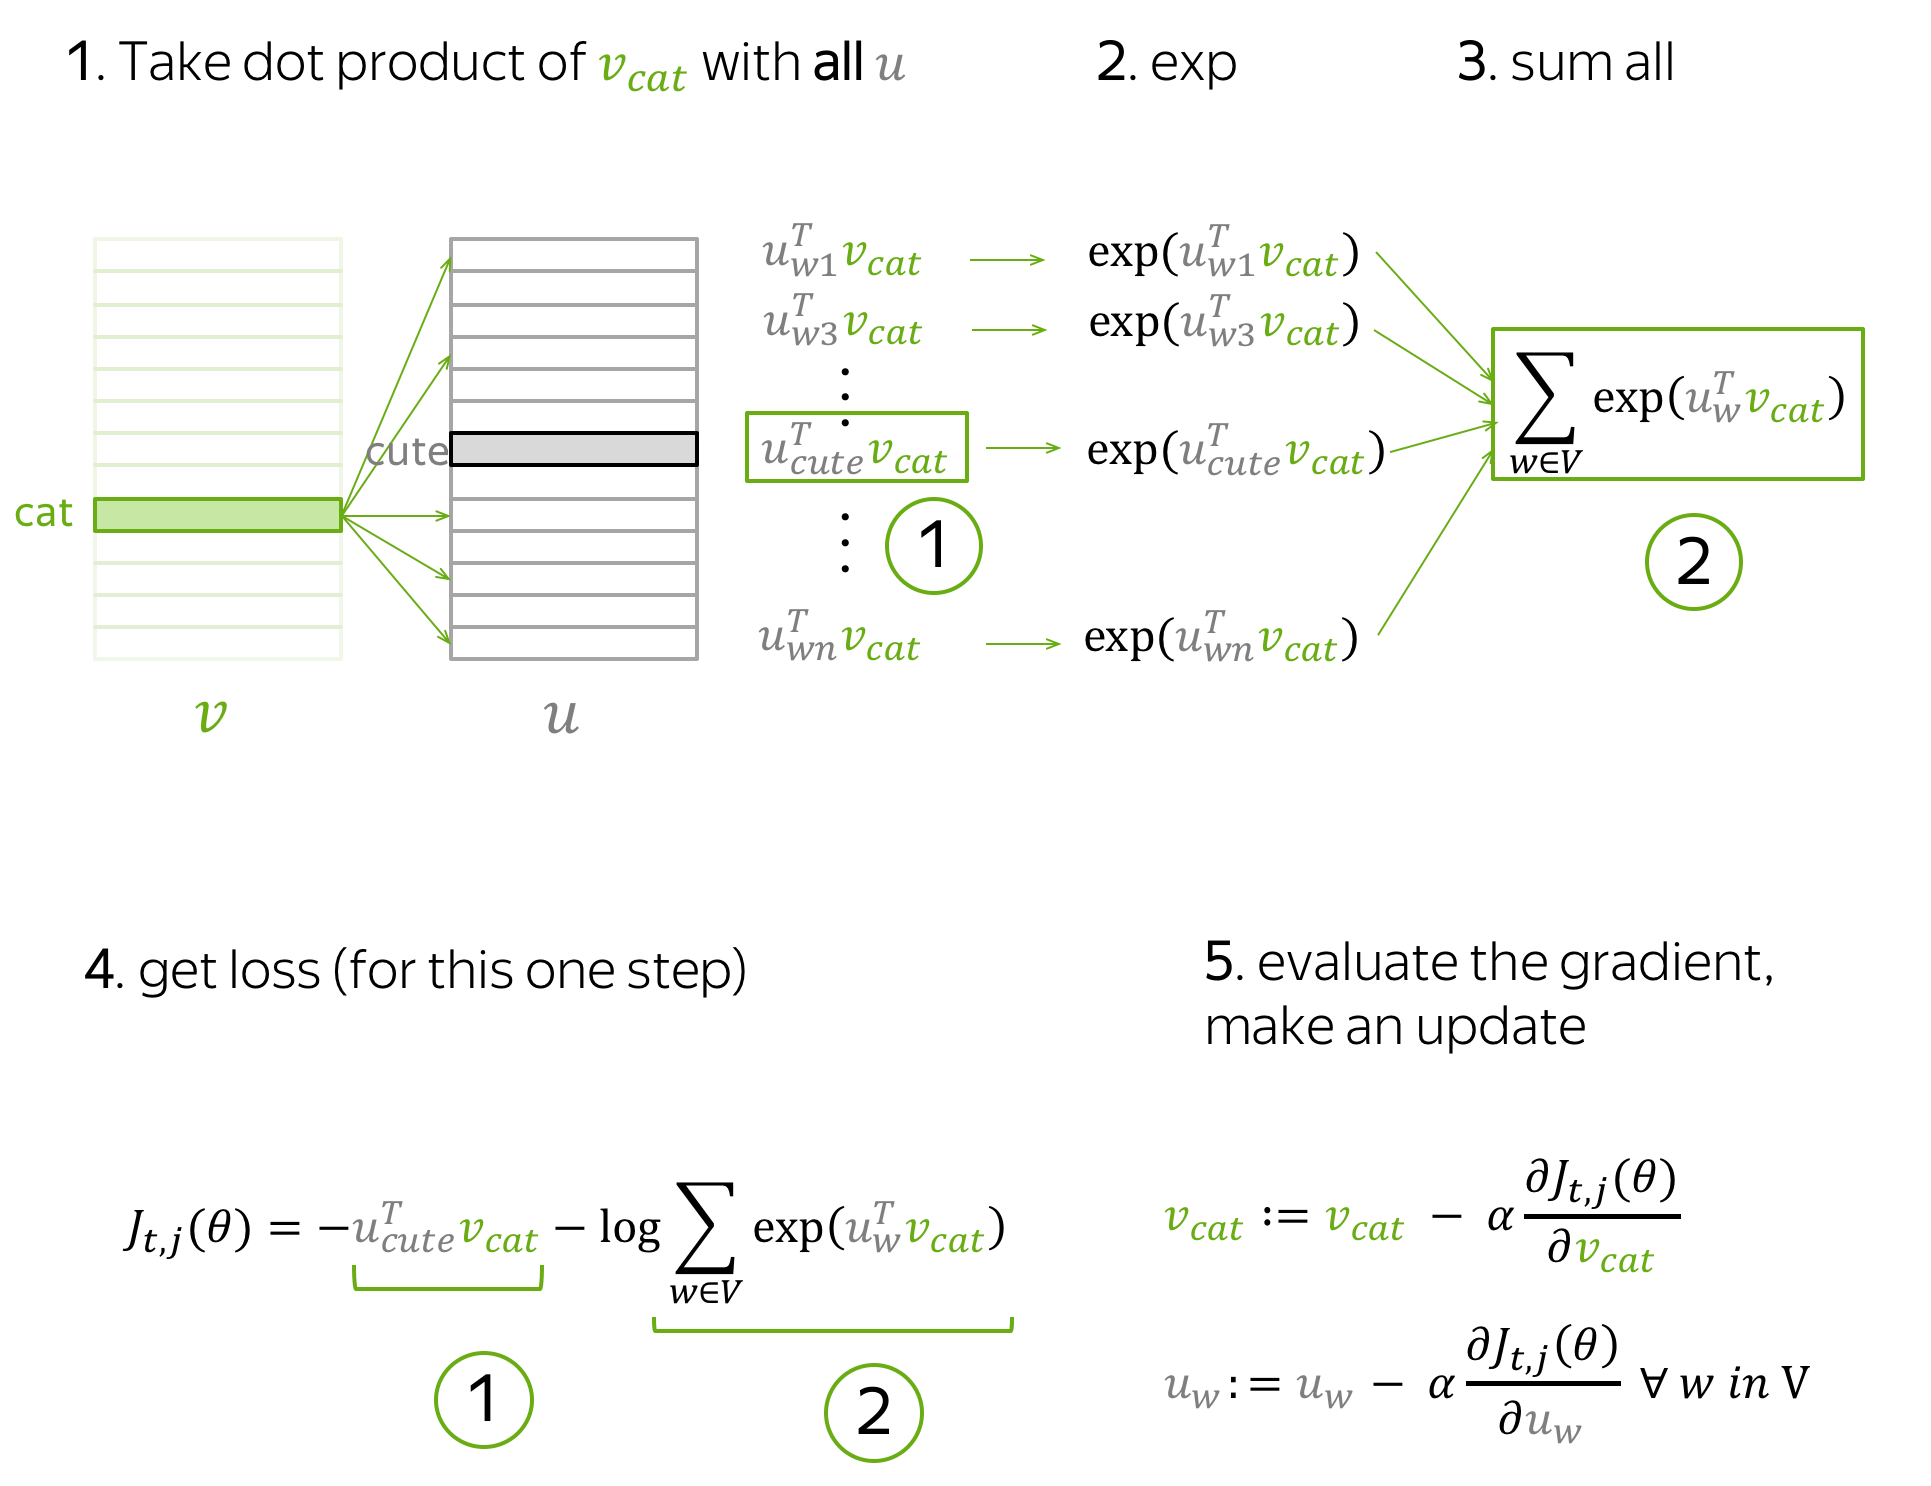
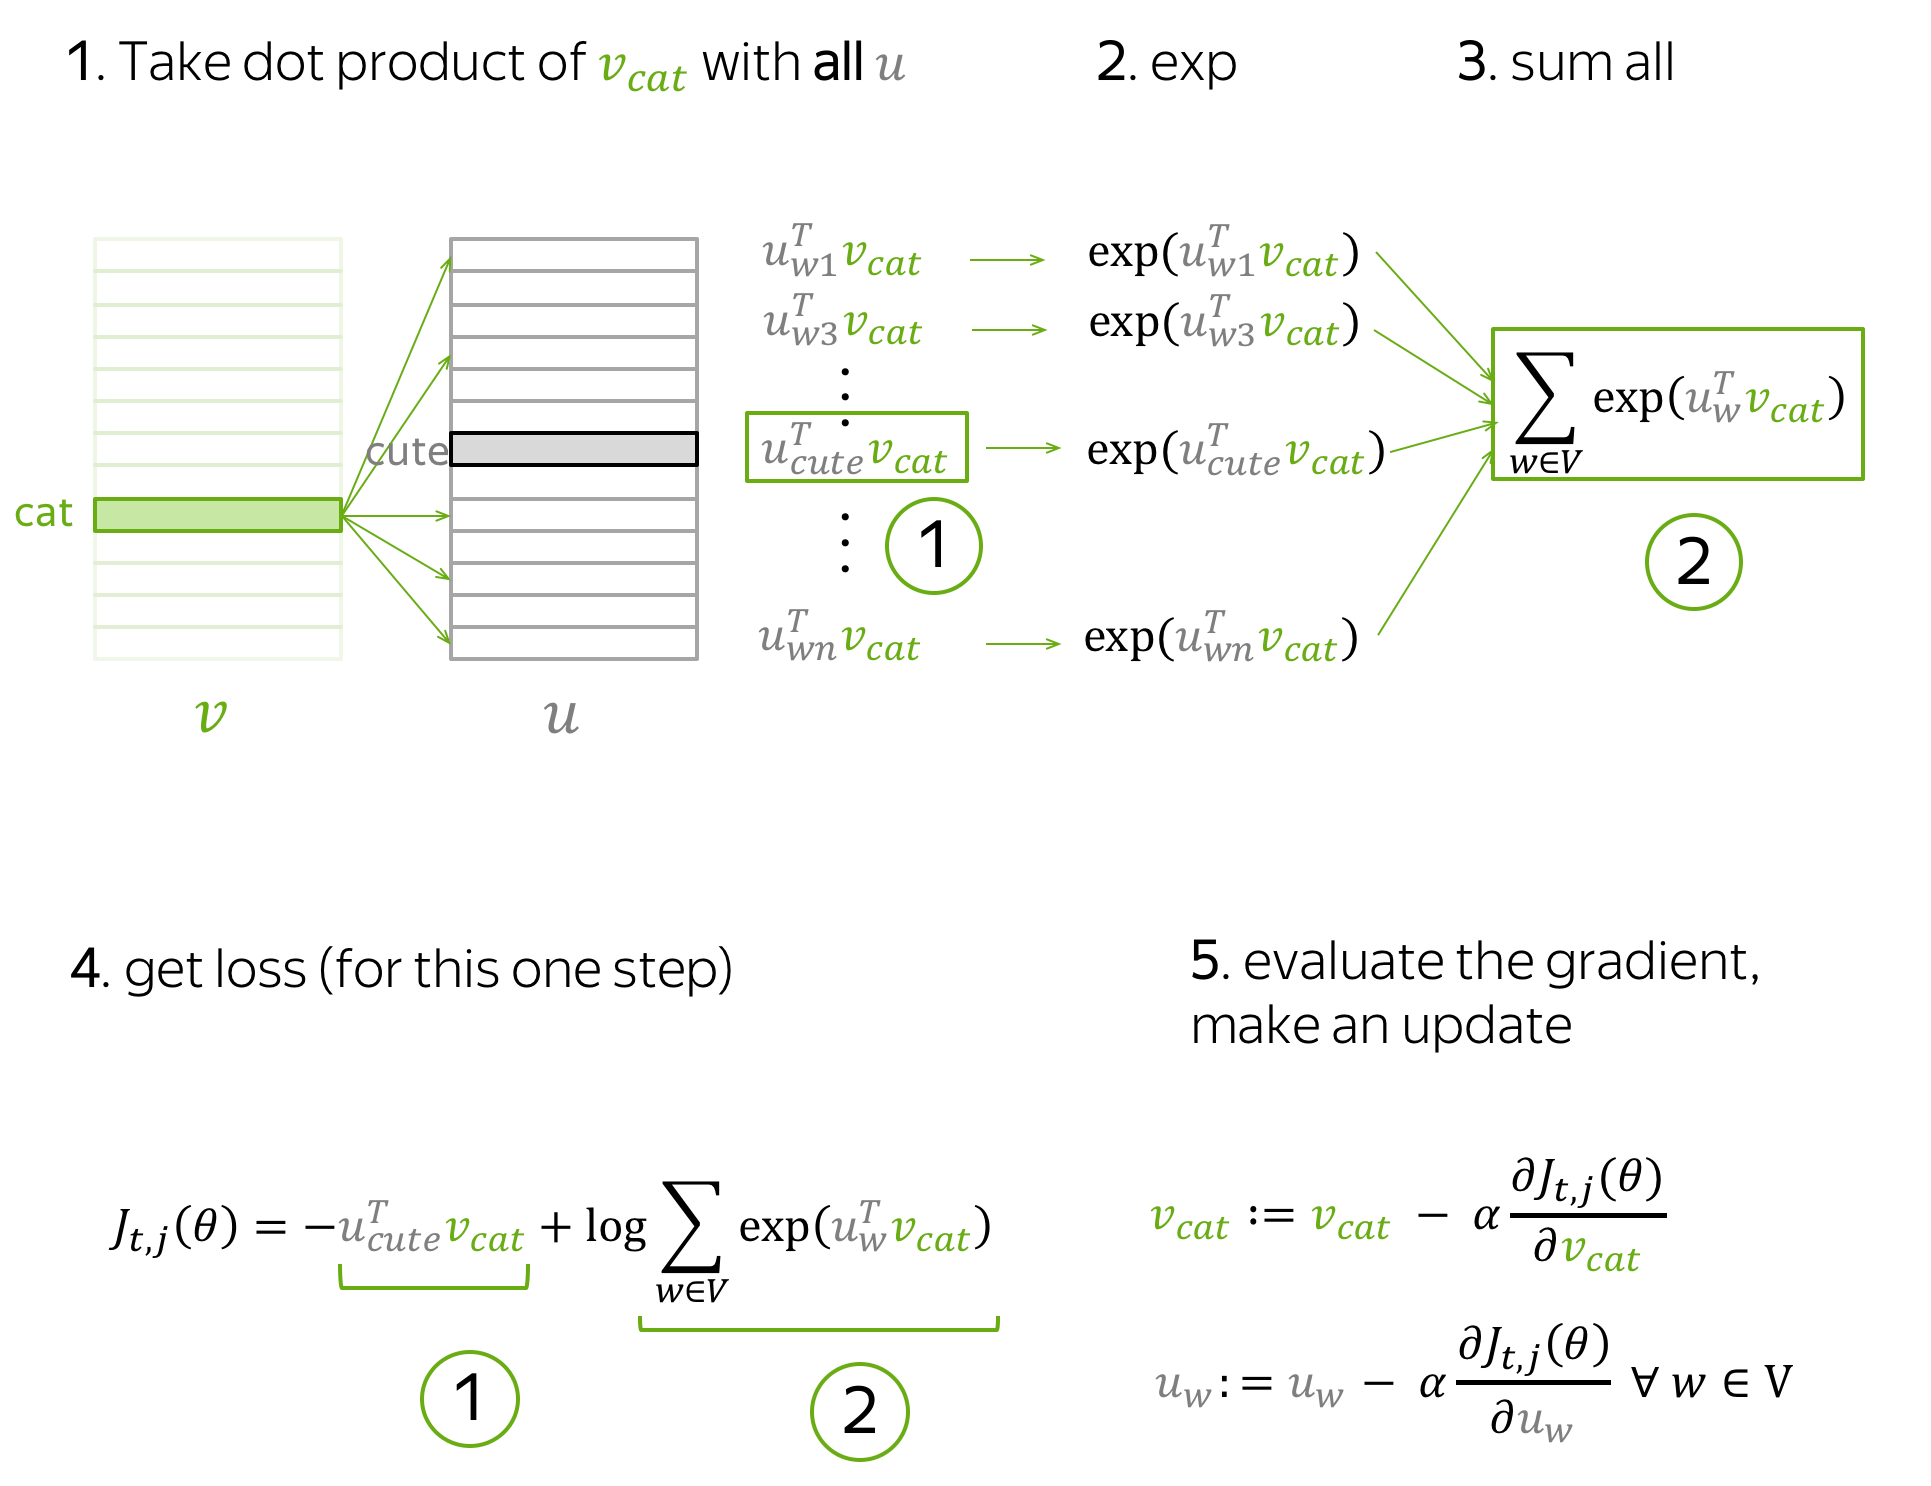
fix

diff --git a/nlp_course/word_embeddings.html b/nlp_course/word_embeddings.html
@@ -9,7 +9,10 @@ Methods for learning word vectors: from count-based to prediction-based, includi
 <div class="sidebar" id="sidebar">
     <a href="javascript:void(0)" id="close_sidebar_btn" onclick="closeNav()"
    style="text-align:center;font-size:30px;padding:0px;">⇤</a>
-  <a class="active" href="#main_content"  style="font-weight: bold;">Word Embeddings</a>
+    <a class="active" href="../nlp_course.html" style="font-weight: bold;">
+        <img height="18" class='sidebar_ico' src="../resources/lectures/ico/course_logo.png" style="margin-right: 8px;margin-left: 8px;margin-top: 4px;"/>
+        NLP Course <font color="#92bf32" id="for_you_in_sidebar">| For You</font></a>
+  <a  href="#main_content"  style="font-weight: bold;">Word Embeddings</a>
     <a href="#one_hot_vectors">One-Hot Vectors</a>
   <a href="#distributional_semantics">Distributional Semantics</a>
     <a href="#pre_neural">Count-Based Methods</a>
@@ -47,6 +50,8 @@ Methods for learning word vectors: from count-based to prediction-based, includi
 <div class="sidebar" id="sidebar_small">
 
   <a class="active" onclick="openNav()" style="text-align:center;">☰</a>
+    <a href="../nlp_course.html" >
+        <img height="20" src="../resources/lectures/ico/course_logo.png" style="margin-right: 8px;margin-left: 8px;"/></a>
     <a href="#main_page_content" style="text-align:center; font-size:20px;color:#7ca81e"> <i class="fa fa-home"></i></a>
 
 <a href="#analysis_interpretability" id="sidebar_analysis"> <img height="25" src="../resources/lectures/ico/analysis_empty.png"/></a>
@@ -87,8 +92,7 @@ function onResize() {
   }
   else {
      document.getElementById("sidebar").style.display = "none";
-    document.getElementById("sidebar_small").style.display = "block";
-
+     document.getElementById("sidebar_small").style.display = "block";
   }
 }
 window.onresize = onResize;
@@ -619,7 +623,7 @@ for (i = 0; i < dropdown.length; i++) {
     <h2><u>Objective Function</u>: Negative Log-Likelihood</h2>
 
     <p>
-    For each position \(t =1, \dots, T\) in a text corpora,
+    For each position \(t =1, \dots, T\) in a text corpus,
         Word2Vec predicts context words within a m-sized window given the central
     word \(\color{#88bd33}{w_t}\):
     \[\color{#88bd33}{\mbox{Likelihood}} \color{black}= L(\theta)=
@@ -770,7 +774,7 @@ for (i = 0; i < dropdown.length; i++) {
         -\log \frac{\exp\color{#888}{u_{cute}^T}\color{#88bd33}{v_{cat}}}{
        \sum\limits_{w\in Voc}\exp{\color{#888}{u_w^T}\color{#88bd33}{v_{cat}} }} =
     -\color{#888}{u_{cute}^T}\color{#88bd33}{v_{cat}}\color{black}
-        - \log \sum\limits_{w\in Voc}\exp{\color{#888}{u_w^T}\color{#88bd33}{v_{cat}}}\color{black}{.}
+        + \log \sum\limits_{w\in Voc}\exp{\color{#888}{u_w^T}\color{#88bd33}{v_{cat}}}\color{black}{.}
         \]</p>
 
        <p> Note which parameters are present at this step:</p>
@@ -788,7 +792,7 @@ for (i = 0; i < dropdown.length; i++) {
 
     <center>
         <img src="../resources/lectures/word_emb/w2v/one_step_alg-min.png"
-             style="max-width:90%; margin-top:15px; margin-bottom:15px;"/>
+             style="max-width:90%; margin-top:15px; margin-bottom:0px;"/>
     </center>
 
     <br><br>
@@ -3739,6 +3743,216 @@ We want to find a transformation matrix W such that \(W\color{#547dbf}{z_i}\) ap
 ['westeros', 'hamlet', 'sherlock', 'batman', 'hermione'],
 ['', '', '', '', '']],
 
+// %%%%%%%%%%%%%%  81 - 90 %%%%%%%%%%%%%%%%%%%%
+
+['burger - round + square = ?',
+ 'kfc',
+['mcdonald', 'sushi', 'hotdog', 'bakery', 'bagel', 'buffet', 'steak', 'pizza'],
+['', '', '', '', '', '', '', '']],
+
+['cadbury - round + square = ?',
+ 'toblerone',
+['wafer', 'magnum', 'bambu', 'cokelat', 'oreo', 'almond', 'gingerbread'],
+['', '', '', '', '', '', '']],
+
+['gingerbread - square + round = ?',
+ 'pumpkin',
+['cookie', 'whip', 'pudding', 'cake', 'baking', 'homemade', 'crack', 'vanilla'],
+['', '', '', '', '', '', '', '']],
+
+['shortbread - square + round = ?',
+ 'biscuits',
+['entwined', 'pudding', 'neigh', 'nookie', 'truffles', 'ice-cream', 'nilla', 'bezzie'],
+['', '', '', '', '', '', '', '']],
+
+['student - hungry + wealthy = ?',
+ 'corporate',
+['grads', 'academic', 'equity', 'colleges', 'education', 'universities', 'funded', 'faculty', 'scholar'],
+['', '', '', '', '', '', '', '', '']],
+
+['sausage - small + big = ?',
+ 'bacon',
+['cheese', 'toast', 'steak', 'sandwich', 'chicken', 'ham', 'pancakes', 'roast', 'egg'],
+['', '', '', '', '', '', '', '', '']],
+
+['egg - boiled + fried = ?',
+ 'chicken',
+['cheese', 'sandwich', 'cake', 'fish', 'salad', 'bread', 'rice', 'steak', 'sausage', 'burger', 'soup'],
+['', '', '', '', '', '', '', '', '', '', '']],
+
+['spock - potter + hermione = ?',
+ 'uhura',
+['randal', 'nicholson', 'blaire', 'capuano', 'reeves', 'regan'],
+['', '', '', '', '', '']],
+
+['spock - startrek + starwars = ?',
+ 'anakin',
+['jedi', 'gandalf', 'skywalker', 'darth', 'lego', 'sheldon', 'superman', 'percy', 'chuck', 'sylvester', 'bruce', 'bob'],
+['', '', '', '', '', '', '', '', '', '', '', '']],
+
+['jedi - starwars + startrek = ?',
+ 'spock',
+['terminator', 'aryan', 'warlock', 'spidey', 'anakin', 'mech', 'fenrir', 'magneto', 'cyclops'],
+['', '', '', '', '', '', '', '', '']],
+
+// %%%%%%%%%%%%%%  91 - 100 %%%%%%%%%%%%%%%%%%%%
+
+['mathematician - career + life = ?',
+ 'philosopher',
+['proverb', 'cynic', 'glutton', 'misunderstood', 'socrates', 'pothead', 'psychopath', 'colorblind', 'drunkard'],
+['', '', '', '', '', '', '', '', '']],
+
+['sheldon - male + female = ?',
+ 'leonard',
+['carl', 'cooper', 'bruce', 'doug', 'lenny', 'marshall', 'steven'],
+['', '', '', '', '', '', '']],
+
+['thebigbangtheory - sheldon + potter = ?',
+ 'harrypotter',
+['twilight', 'saga', 'hungergames', 'dragonball', 'narnia', 'starwars'],
+['', '', '', '', '', '']],
+
+['thebigbangtheory - penny + hermione = ?',
+ 'theamazingspiderman',
+['mycroft', 'twoandahalfmen', 'grint', 'tautou', 'westwick'],
+['', '', '', '', '']],
+
+['c++ - language + drink = ?',
+ 'cider',
+['smirnoff', 'lemonade', 'alc', 'linux', 'redbull', 'wisk', 'juice', 'lime', 'fanta'],
+['', '', '', '', '', '', '', '', '']],
+
+['vodka - drink + eat = ?',
+ 'nutella',
+['banana', 'bacon', 'chocolate', 'butter', 'cheese', 'bananas', 'pasta', 'sandwich', 'pizza', 'waffles', 'oreos', 'milk'],
+['', '', '', '', '', '', '', '', '', '', '', '']],
+
+['bacon - eat + drink = ?',
+ 'vodka',
+['beer', 'drinks', 'whiskey', 'coke', 'soda', 'ketchup', 'coffee', 'lemonade', 'tequila', 'wine', 'pepsi', 'whisky'],
+['', '', '', '', '', '', '', '', '', '', '', '']],
+
+['javascript - language + drink = ?',
+ 'smirnoff',
+['cider', 'coffee', 'soda', 'coffe', 'juice', 'heineken', 'vodka', 'redbull'],
+['', '', '', '', '', '', '', '']],
+
+['c++ - language + animal = ?',
+ 'linux',
+['java', 'developer', 'acnl', 'perl', 'html'],
+['', '', '', '', '']],
+
+['java - language + animal = ?',
+ 'zombie',
+['minecraft', 'iguana', 'safari', 'monster', 'resident', 'manhattan', 'green', 'farm', 'orangutan'],
+['', '', '', '', '', '', '', '', '']],
+
+
+// %%%%%%%%%%%%%%  101 - 110 %%%%%%%%%%%%%%%%%%%%
+
+['copywriting - copy + writing = ?',
+ 'screenwriting',
+['ghostwriting', 'blogging', 'journaling', 'freelancing'],
+['', '', '', '']],
+
+['jazz - piano + fork = ?',
+ 'lobster',
+['longhorn', 'salt', 'grill', 'baltimore', 'sausage', 'shrimp', 'meat', 'olive', 'barbeque'],
+['', '', '', '', '', '', '', '', '']],
+
+['writer - shame + fame = ?',
+ 'producer',
+['publisher', 'author', 'blogger', 'indie', 'artist', 'editor', 'entrepreneur', 'creator'],
+['', '', '', '', '', '', '', '']],
+
+['research - code + novelty = ?',
+ 'stimulating',
+['translational', 'speculative', 'educational'],
+['', '', '']],
+
+['lobster - sea + earth = ?',
+ 'crab',
+['fish', 'bread', 'squirrel', 'cheese', 'bagel'],
+['', '', '', '', '']],
+
+['spock - calm + emotional = ?',
+ 'uhura',
+['kirk', 'gandalf', 'frodo'],
+['', '', '']],
+
+['research - science + art = ?',
+ 'design',
+['photography', 'graphic', 'illustration', 'portrait', 'blog', 'project'],
+['', '', '', '', '', '']],
+
+['sport - medal + health = ?',
+ 'lifestyle',
+['fitness', 'nutrition', 'wellness', 'community'],
+['', '', '', '']],
+
+['startup - money + science = ?',
+ 'innovation',
+['storytelling', 'entrepreneurship', 'technology', 'institute', 'enterprise', 'computing'],
+['', '', '', '', '', '']],
+
+['innovation - novelty + money = ?',
+ 'business',
+['marketing', 'startup', 'education'],
+['', '', '']],
+
+// %%%%%%%%%%%%%%  111 - 120 %%%%%%%%%%%%%%%%%%%%
+
+['sun - hot + cold = ?',
+ 'rain',
+['storm', 'moon', 'earth', 'darkness', 'winter'],
+['', '', '', '', '']],
+
+['human - sentient + furry = ?',
+ 'dog',
+['cat', 'bear', 'child', 'monkey', 'big', 'kid', 'boy'],
+['', '', '', '', '', '', '']],
+
+['hamburger - america + italy = ?',
+ 'lasagne',
+['tiramisu', 'toastie', 'spaghetti', 'croissant', 'kebab', 'baguette', 'hotdog', 'puding', 'gnocchi'],
+['', '', '', '', '', '', '', '', '']],
+
+['nutella - chocolate + banana = ?',
+ 'yogurt',
+['pasta', 'ketchup', 'butter', 'sandwich', 'waffle', 'oreos', 'avocado'],
+['', '', '', '', '', '', '']],
+
+['wizardry - fantasy + science = ?',
+ 'mathematics',
+['humanities', 'ethics', 'linguistics', 'theology', 'anthropology', 'coding', 'physics'],
+['', '', '', '', '', '', '']],
+
+['humanities - human + language = ?',
+ 'linguistics',
+['literature', 'sociology', 'economics', 'mathematics', 'geography', 'geometry', 'civics', 'physics'],
+['', '', '', '', '', '', '', '']],
+
+['calculus - formula + shape = ?',
+ 'geometry',
+['physics', 'chem', 'biology', 'geography', 'sociology', 'midterm', 'messed'],
+['', '', '', '', '', '', '']],
+
+['math - thinking + politics = ?',
+ 'economics',
+['science', 'physics', 'ethics', 'sociology'],
+['', '', '', '']],
+
+['bar - alcohol + coffee = ?',
+ 'cafe',
+['restaurant', 'bistro', 'grill', 'garden'],
+['', '', '', '']],
+
+['box - square + round = ?',
+ 'pack',
+['bag', 'table', 'luggage', 'fox'],
+['', '', '', '']],
+
+// %%%%%%%%%%%%%%  121 - 130 %%%%%%%%%%%%%%%%%%%%
         ];
         var result_messages = [
             "<img src='../resources/lectures/word_emb/fun/level_0_2.png' width=30% style='margin:30px;'><br><p style='text-align:center;'>Remove your cat from the screen and try again</p>",

diff --git a/nlp_course.html b/nlp_course.html
@@ -2,6 +2,8 @@
 layout: lecture
 title: NLP Course | For You
 description: Natural Language Processing course with interactive lectures-blogs, research thinking exercises and related papers with summaries. Also a lot of fun inside!
+menu: yes
+order: 4
 ---
 
 
@@ -10,7 +12,9 @@ description: Natural Language Processing course with interactive lectures-blogs,
 <div class="sidebar" id="sidebar">
     <a href="javascript:void(0)" id="close_sidebar_btn" onclick="closeNav()"
    style="text-align:center;font-size:30px;padding:0px;">⇤</a>
-    <a class="active" href="#main_page_content" style="font-weight: bold;">NLP Course <font color="#7ca81e">| For You</font></a>
+    <a class="active" href="#main_page_content" style="font-weight: bold;">
+        <img height="18" class='sidebar_ico' src="../resources/lectures/ico/course_logo.png" style="margin-right: 8px;margin-left: 8px;margin-top: 4px;"/>
+        NLP Course <font color="#92bf32" id="for_you_in_sidebar">| For You</font></a>
     <a href="#whats_inside">What's inside</a>
     <a href="#lectures">Course</a>
     <a href="#preview_word_emb"><span style="margin-right:15px;font-size:14px;">&#8226;</span>
@@ -590,14 +594,16 @@ onResize();
           <div class="carousel-cell" style="width:100%"><center>
             <img src="../resources/lectures/main/preview/word_emb/cross_lingual-min.png" style="width:90%">
         </center></div>
+          <!--
           <div class="carousel-cell" style="width:100%"><center>
             <img src="../resources/lectures/main/preview/word_emb/research_thinking-min.png" style="width:90%">
         </center></div>
           <div class="carousel-cell" style="width:100%"><center>
             <img src="../resources/lectures/main/preview/word_emb/related_papers-min.png" style="width:90%">
-        </center></div>
+        </center></div>-->
 
     </div>
+        <p style="text-align: center; font-size:20px;margin-top:30px;"><a href="./nlp_course/word_embeddings.html">read more ⇨</a></p>
 </div>
 </div>
 </div>

diff --git a/_includes/head_lecture.html b/_includes/head_lecture.html
@@ -1,0 +1,22 @@
+<head>
+    <meta charset="utf-8">
+    <meta name="viewport" content="width=device-width initial-scale=1" />
+    <meta http-equiv="X-UA-Compatible" content="IE=edge">
+
+    <title>{% if page.title %}{{ page.title }}{% else %}{{ site.title }}{% endif %}</title>
+    <meta name="description" content="{{ page.description }}">
+
+    <link rel="stylesheet" href="{{ "/css/main.css" | prepend: site.baseurl }}">
+    <link rel="canonical" href="{{ page.url | replace:'index.html','' | prepend: site.baseurl | prepend: site.url }}">
+
+    <!-- diff from head.html begin -->
+     <link rel="mask-icon" href="../resources/lectures/ico/course_logo.png">
+     <link rel="alternate icon" class="js-site-favicon" type="image/png" href="../resources/lectures/ico/course_logo.png">
+     <link rel="icon" class="js-site-favicon" type="image/svg+xml" href="../resources/lectures/ico/course_logo.png">
+    <!-- diff from head.html end -->
+
+    <script type="text/javascript" src="http://cdn.mathjax.org/mathjax/latest/MathJax.js?config=default"></script>
+
+
+
+</head>

diff --git a/teaching.md b/teaching.md
@@ -2,7 +2,7 @@
 layout: photolist
 title: Teaching & Supervising
 description: Information about the students I supervised and the courses I teach. 
-menu: yes
+menu: no
 order: 4
 ---
 
